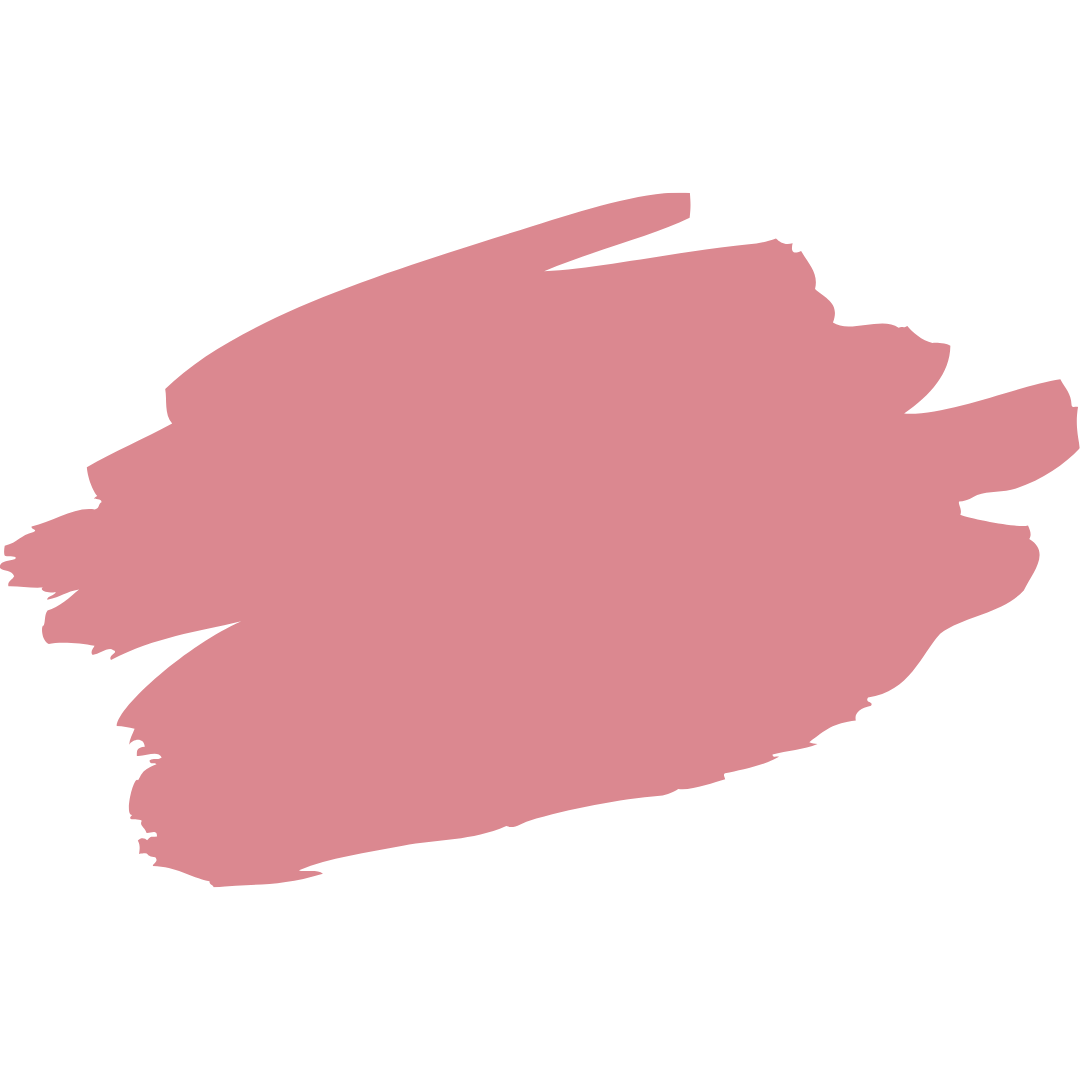
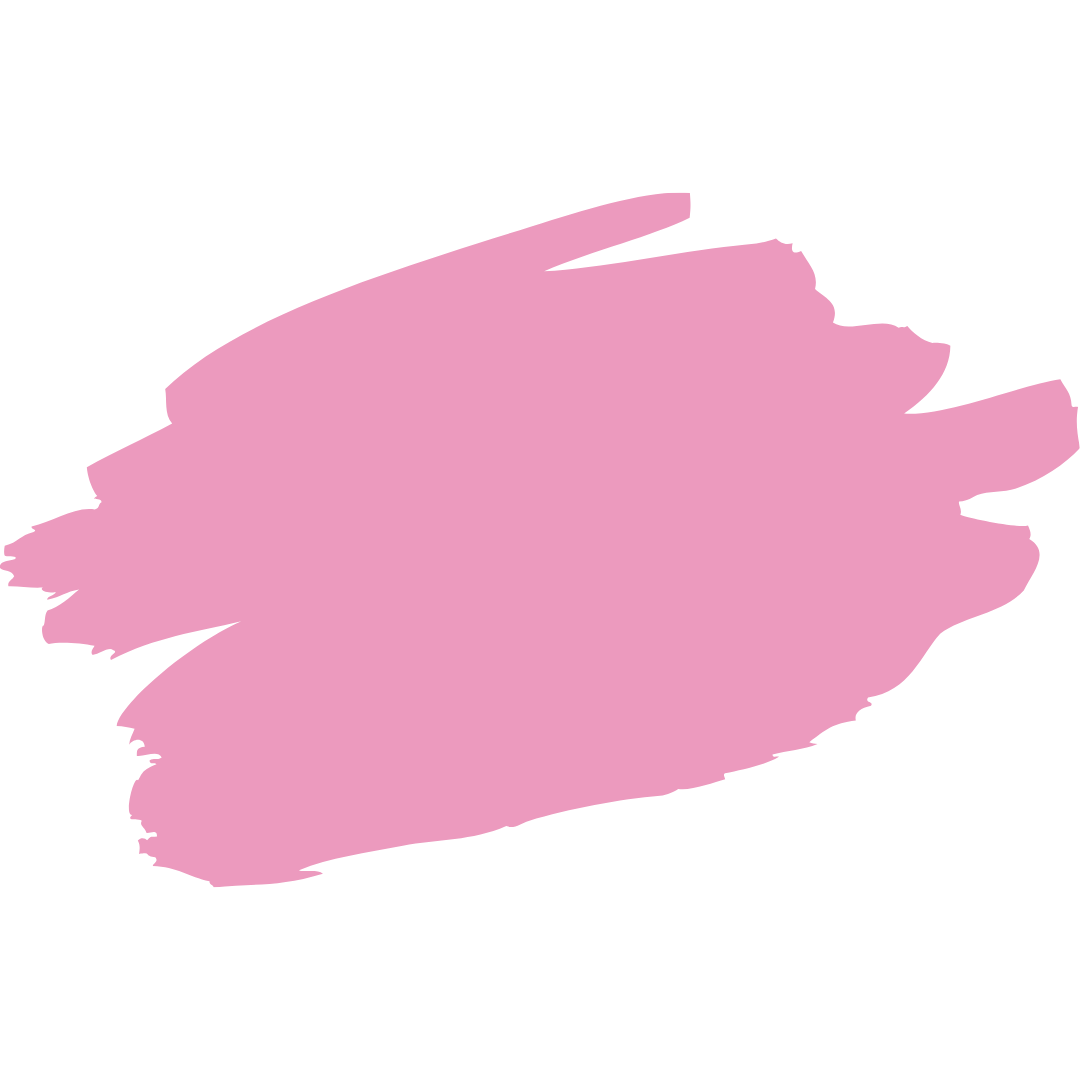
change colors, change top and bottom flowers

diff --git a/index.html b/index.html
@@ -25,17 +25,17 @@
       align-items: center;
       flex-direction: column;
     }
-    .frame-top {
+    .frame {
       display: flex;
       position: relative;
-      width: 120%;
-      margin-top: -20%;
+      width: 130%;
+      left: 5%;
+    }
+    .frame-top {
+      margin-top: -30%;
     }
     .frame-bottom {
-      display: flex;
-      position: relative;
-      width: 120%;
-      margin-bottom: -20%;
+      margin-bottom: -30%;
       transform: scaleY(-1);
     }
     .calendar {
@@ -151,7 +151,7 @@
     }, 1000);
     </script>
   <body>
-    <img class="frame-top" src="files/header.png">
+    <img class="frame frame-top" src="files/15.png">
     <div style="display: flex; flex-direction: column; align-items: center; width: 80vw;">
       <p style="font-family: LianaRegular; font-size: 174px;">Марина<br>та<br>Олександр</p>
       <div class="title-text">До весiлля залишилося:</div>
@@ -228,14 +228,14 @@
           <div>
             <div style="font-family: LianaRegular; font-size: 48px;">11:30 - Зустрiч</div>
             <div style="font-size: 32px; font-family: Slimamif;">Зустріч і знайомство гостей,<br>Благословення наречених батьками</div>
-            <p style="font-family: Slimamif;">м-н. Перемоги 50, Вараш</p>
+            <p style="font-family: Slimamif; font-size: 24px;;">м-н. Перемоги 50, Вараш</p>
           </div>
         </div>
         <div style="display: flex; justify-content: center; margin-top: 100px;">
           <div>
             <div style="font-family: LianaRegular; font-size: 48px;">12:00 - Вiнчання</div>
             <div style="font-size: 32px; font-family: Slimamif;">Господь своєю присутністю<br>з'єднає наші душі в єдине ціле</div>
-            <p style="font-family: Slimamif;">Свято-Софіївська парафія,<br>м-н. Перемоги 51, Вараш</p>
+            <p style="font-family: Slimamif; font-size: 24px;">Свято-Софіївський храм,<br>м-н. Перемоги 52а, Вараш</p>
           </div>
           <img src="files/17.png" style="width: 200px; margin-left: 5%;">
         </div>
@@ -244,7 +244,7 @@
           <div>
             <div style="font-family: LianaRegular; font-size: 48px;">15:00 - Святкування</div>
             <div style="font-size: 32px; font-family: Slimamif;">Радісно проведемо час та створимо неймовірні<br>спогади у чудовій атмосфері ресторану</div>
-            <p style="font-family: Slimamif;">вул. Центральна 38, Колодії</p>
+            <p style="font-family: Slimamif; font-size: 24px;;">вул. Центральна 38, Колодії</p>
           </div>
         </div>
       </div>
@@ -297,6 +297,6 @@
       <div class="title-text">До зустрiчi!</div>
       <p class="content-text">"Води великі не зможуть згасити кохання, ані ріки його не заллють..." (Пісн.8:7)</p>
     </div>
-    <img class="frame-bottom" src="files/header.png">
+    <img class="frame frame-bottom" src="files/15.png">
   </body>
 </html>
